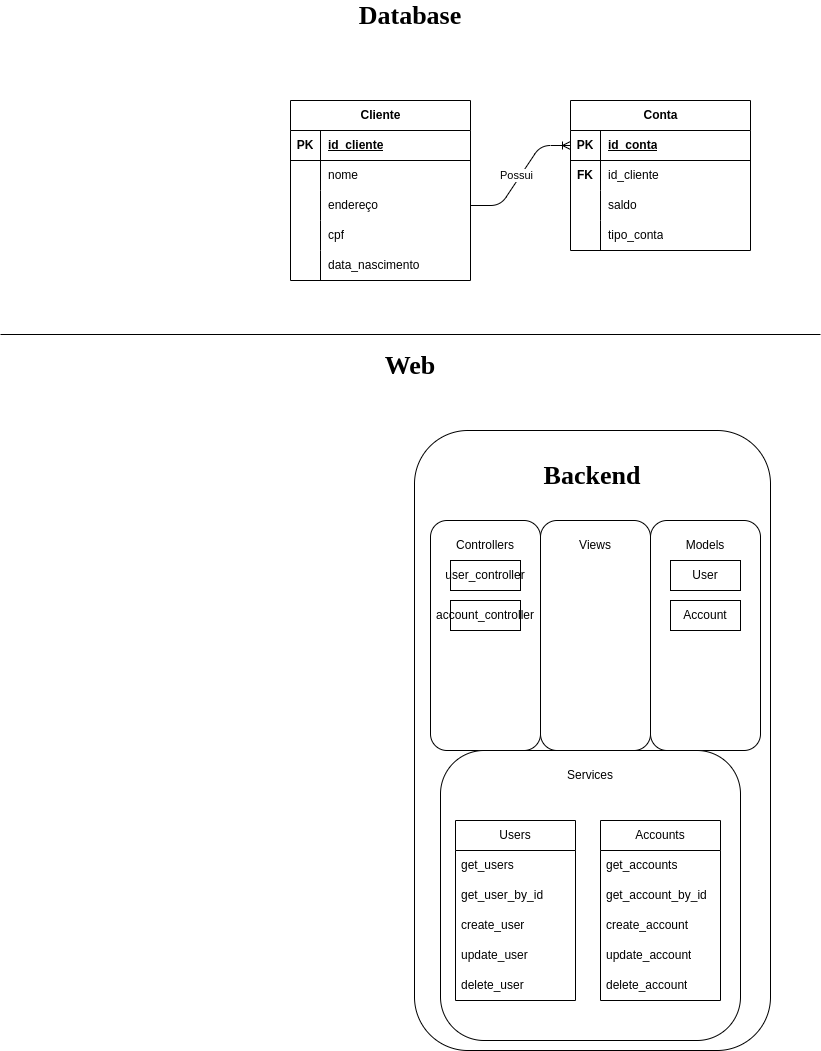
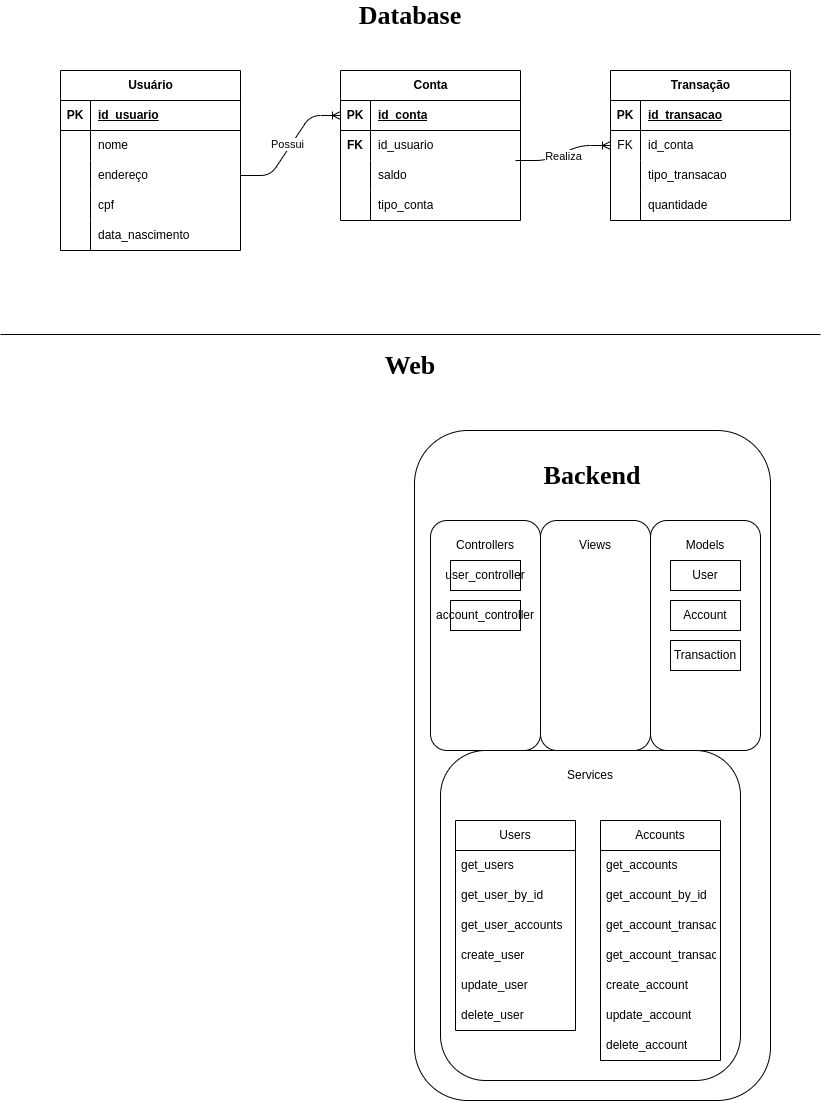
Add new models and refactor, creating accounts and auth

diff --git a/src/controllers/user_controller.py b/src/controllers/user_controller.py
@@ -1,7 +1,11 @@
-from fastapi import APIRouter, HTTPException, status
+from fastapi import APIRouter, HTTPException, Query, status
 
-from src.models.user_model import User
-from src.schemas.user_schemas import UserUpdateModel
+from src.models.user_model import (
+    User,
+    UserCreateModel,
+    UserPublicModel,
+    UserUpdateModel,
+)
 from src.services.user_services import UserService
 from src.utils.exceptions import RegistryNotFoundException
 
@@ -13,9 +17,10 @@ usr_service = UserService()
     '/',
     status_code=status.HTTP_200_OK,
 )
-async def get_users() -> list[User] | None:
-    users = await usr_service.read_users()
-
+async def get_users(
+    skip: int = 0, limit: int = Query(default=100, le=100)
+) -> list[UserPublicModel] | None:
+    users = await usr_service.read_users(skip, limit)
     return users
 
 
@@ -23,17 +28,23 @@ async def get_users() -> list[User] | None:
     '/{user_id}',
     status_code=status.HTTP_200_OK,
 )
-async def get_user_by_id(user_id: int) -> User | None:
-    user = await usr_service.read_users(user_id=user_id)
+async def get_user_by_id(user_id: int) -> UserPublicModel | None:
+    try:
+        user = await usr_service.read_users(user_id=user_id)
 
-    return user
+        return user
+    except RegistryNotFoundException:
+        raise HTTPException(
+            status_code=status.HTTP_404_NOT_FOUND, detail='User not found!'
+        )
 
 
 @router.post(
     '/',
     status_code=status.HTTP_201_CREATED,
 )
-async def create_user(user: User) -> User:
+async def create_user(user: UserCreateModel) -> UserPublicModel:
+    user = User.model_validate(user)  # Convertendo para model User
     await usr_service.insert_user(user)
 
     return user
@@ -43,7 +54,7 @@ async def create_user(user: User) -> User:
     '/{user_id}',
     status_code=status.HTTP_201_CREATED,
 )
-async def update_user(user_id: int, user: User) -> None:
+async def update_user(user_id: int, user: UserCreateModel) -> None:
     try:
         await usr_service.update_user(user_id, user.model_dump())
     except RegistryNotFoundException:
@@ -56,7 +67,7 @@ async def update_user(user_id: int, user: User) -> None:
 
 @router.patch(
     '/{user_id}',
-    status_code=status.HTTP_200_OK,
+    status_code=status.HTTP_204_NO_CONTENT,
 )
 async def update_user_fields(user_id: int, fields: UserUpdateModel) -> None:
     try:

diff --git a/src/services/user_services.py b/src/services/user_services.py
@@ -5,19 +5,32 @@ from src.models.user_model import User
 from src.utils.exceptions import RegistryNotFoundException
 
 
+# TODO: escolher algoritmo de hash
+def hash_password(user: dict) -> dict:
+    password = user['password']
+    hashed_password = {'password': password}
+
+    return hashed_password
+
+
 class UserService:
     # Método para recuperar usuários
     @staticmethod
-    async def read_users(user_id: int = None) -> list[User] | User | None:
+    async def read_users(
+        skip: int = 0, limit: int = 10, user_id: int = None
+    ) -> list[User] | User | None:
         with Session(engine) as session:
             # Recuperar por ID
             if user_id:
                 user = session.get(User, user_id)
 
+                if not user:
+                    raise RegistryNotFoundException
+
                 return user
             # Recuperar todos
             else:
-                users = session.exec(select(User)).all()
+                users = session.exec(select(User).offset(skip).limit(limit)).all()
 
                 return users
 
@@ -25,6 +38,7 @@ class UserService:
     @staticmethod
     async def insert_user(user: dict) -> None:
         with Session(engine) as session:
+            user.update(hash_password(user))
             session.add(user)
             session.commit()
 
@@ -39,6 +53,9 @@ class UserService:
             user = session.get(User, user_id)
 
             if user:
+                if fields['password']:
+                    fields.update(hash_password(fields))
+
                 session.exec(
                     update(User).where(User.c.user_id == user_id).values(**fields)
                 )

diff --git a/src/models/user_model.py b/src/models/user_model.py
@@ -1,14 +1,40 @@
 from sqlmodel import Field, SQLModel
 
 
-class User(SQLModel, table=True):
+# TODO: date type para birth_date
+# Modelo base, se comporta como uma interface
+class UserBaseModel(SQLModel):
+    # Tipo TEXT para SQLite e VARCHAR(255) para MySQL, apenas VARCHAR para outros
+    name: str = Field(index=True)
+    address: str | None = Field(default=None)
+    cpf: str = Field(index=True, min_length=11, max_length=11)
+    birth_date: str | None = Field(default=None)
+    password: str = Field(default='123')
+
+
+# Modelo para criar tabelas
+class User(UserBaseModel, table=True):
     # Type hint == attribute type, None == nullable
 
     # Valor padrão None/Null, caso contrário ainda será necessário passar o dado na instância
     # Gerado pelo database, não pela instância
-    id_usuario: int | None = Field(default=None, primary_key=True)
-    # Tipo TEXT para SQLite e VARCHAR(255) para MySQL, apenas VARCHAR para outros
-    nome: str = Field(index=True)
-    endereco: str | None
-    cpf: str
-    data_nascimento: str | None
+    id_user: int | None = Field(default=None, primary_key=True)
+
+
+# Modelo com atributos necessários para criar um usuário
+class UserCreateModel(UserBaseModel):
+    pass
+
+
+# Modelo com atributos para atualizar um usuário com Patch
+class UserUpdateModel(UserBaseModel):
+    name: str | None
+    cpf: str | None
+    password: str | None
+
+
+# Modelo com os atributos obrigatórios que são retornados para o cliente
+class UserPublicModel(UserBaseModel):
+    id_user: int
+    address: str
+    birth_date: str

diff --git a/src/models/account_model.py b/src/models/account_model.py
@@ -1,9 +1,23 @@
-from sqlmodel import Field, SQLModel
+from typing import TYPE_CHECKING
+
+from sqlmodel import Field, Relationship, SQLModel
+
+# Resolve circular import, constante True apenas para IDEs. Com o interpretador direto é False
+if TYPE_CHECKING:
+    from .transaction_model import Transaction
 
 
+# TODO: enum type para account_type
 class Account(SQLModel, table=True):
-    # Type hint == attribute type, None == nullable
-    id_conta: int = Field(default=None, primary_key=True)
-    id_usuario: int
-    saldo: float
-    tipo_conta: str
+    id_account: int | None = Field(default=None, primary_key=True)
+    id_user: int | None = Field(default=None, foreign_key='user.id_user')
+    balance: float = Field(default=0.0)
+    account_type: str
+
+    # Deleta transações associadas se a conta for deletada. 'Transaction' é um wrapper para type hint
+    # É interpretado como uma string, mas a IDE identifica como tipo.
+    # Se retirasse as aspas, ocasionaria em erro do interpretador devido ao import
+    transactions: list['Transaction'] = Relationship(
+        back_populates='account', cascade_delete=True, passive_deletes='all'
+    )
+    # passive_deletes desativa tratamento padrão do SQLAlchemy, onde o campo associado é setado como nulo antes do atributo ser deletado, inutilizando restrições como ondelete= e outros.

diff --git a/src/models/transaction_model.py b/src/models/transaction_model.py
@@ -1,5 +1,16 @@
-from sqlmodel import Field, SQLModel
+from sqlmodel import Field, Relationship, SQLModel
+
+from .account_model import Account
 
 
+# TODO: enum type para transaction_type
 class Transaction(SQLModel, table=True):
-    pass
+    id_transaction: int | None = Field(default=None, primary_key=True)
+    # Se conta for deletada, remova todas as transações associadas. Apropriado para interações diretas com db
+    id_account: int | None = Field(
+        default=None, foreign_key='account.id_account', ondelete='CASCADE'
+    )
+    transaction_type: str
+    transaction_value: float
+
+    account: Account | None = Relationship(back_populates='transactions')

diff --git a/src/databases/bank_db.py b/src/databases/bank_db.py
@@ -1,4 +1,4 @@
-from sqlmodel import SQLModel, create_engine
+from sqlmodel import SQLModel, create_engine, text
 
 # Instanciando banco
 database_url = 'sqlite:///./bank.db'
@@ -10,5 +10,9 @@ engine = create_engine(database_url, echo=debug, connect_args=connect_args)
 def create_db():
     from src.models.account_model import Account  # noqa
     from src.models.user_model import User  # noqa
+    from src.models.transaction_model import Transaction  # noqa
 
     SQLModel.metadata.create_all(engine)
+    # Habilita suporte para restrições com Foreign key no SQLite
+    with engine.connect() as connection:
+        connection.execute(text('PRAGMA foreign_keys=ON'))
